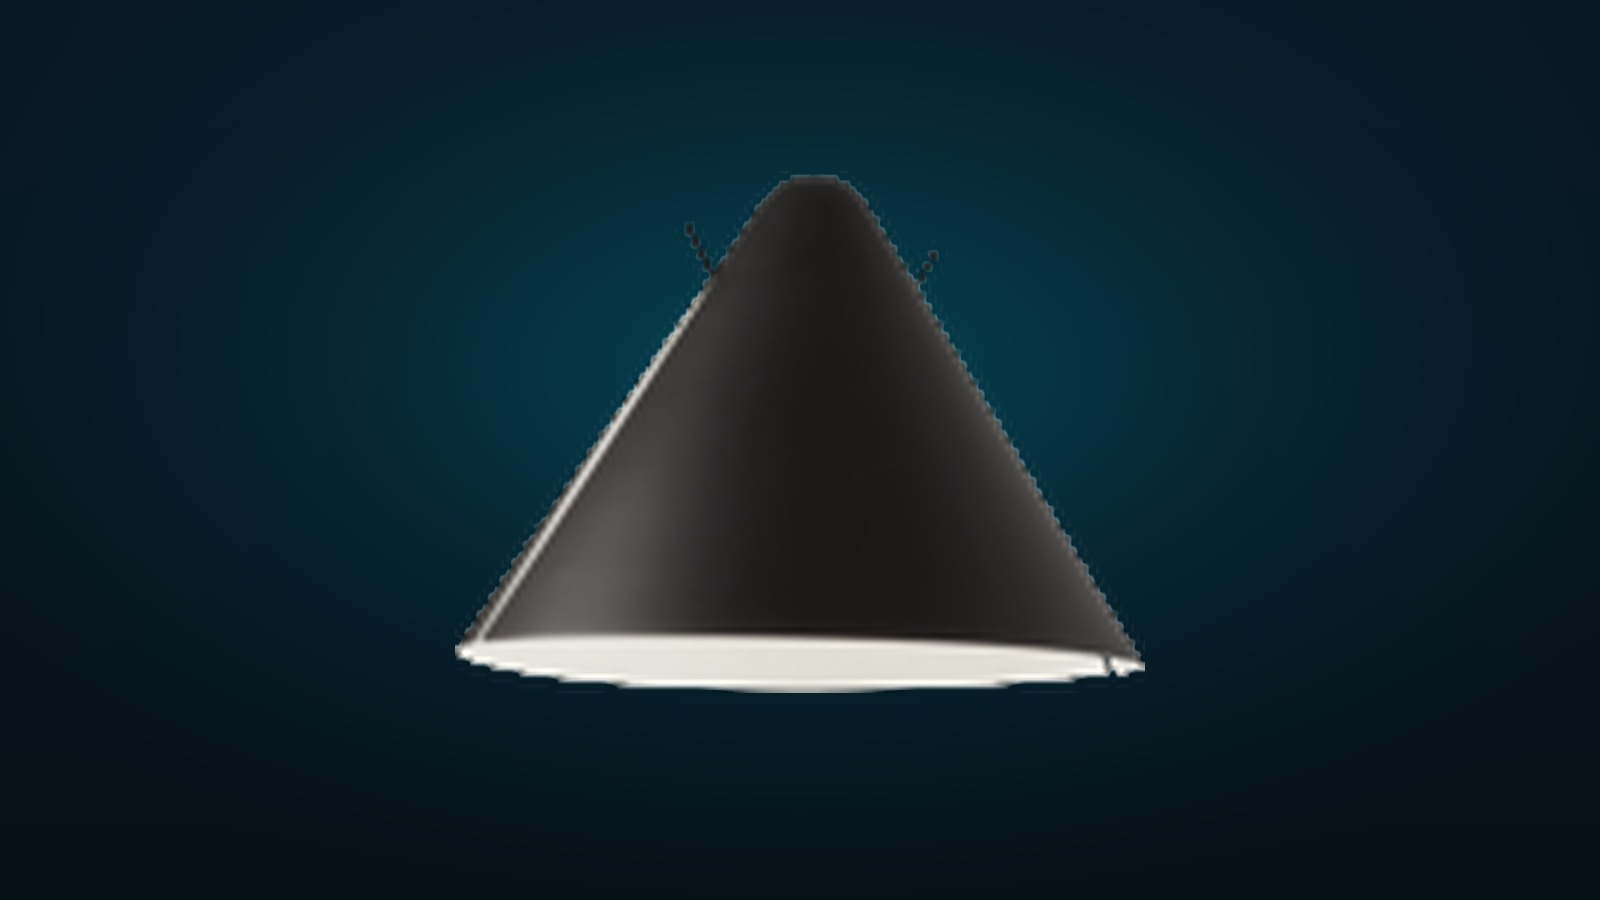
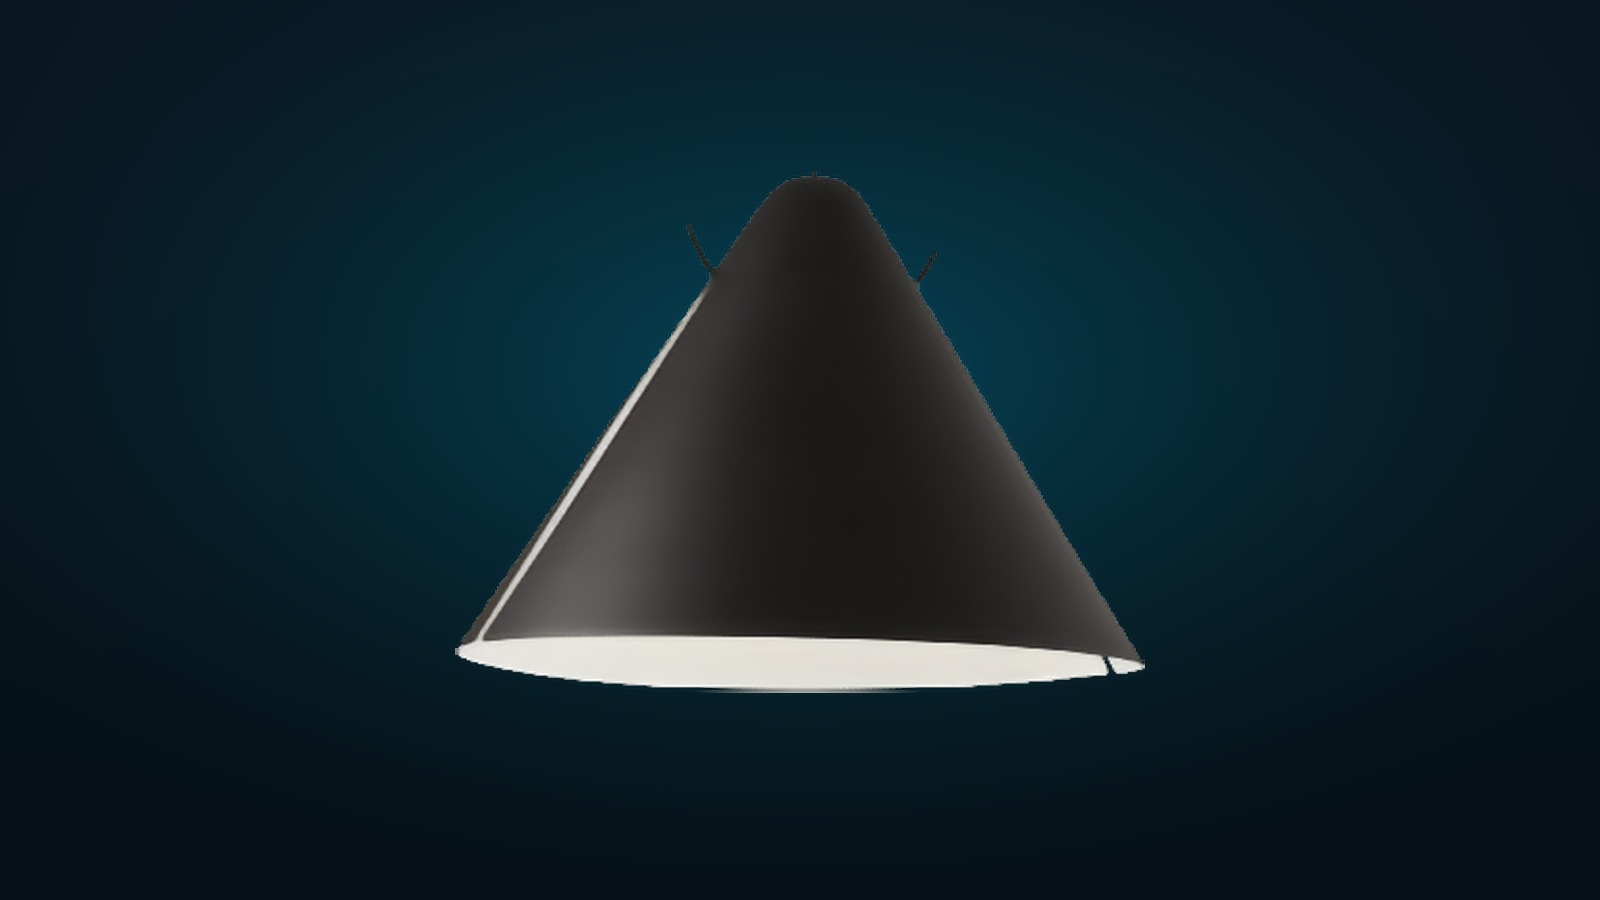
Upscale the three sources too small for a 1600x900 card
Fabric Tape, IS 2360 R and Attic had no usable source at card size.
Fabric Tape was the worst image in the catalogue: every one of its twelve
candidates is a 147x147 thumbnail, which the card blew up 3.55x.

Pixelmator Pro's 3x ML Super Resolution through the pixelmator-mcp
server (see scripts/mcp-call.mjs) gives 441, 1080 and 618px. Each is
committed as a file that SRC_OVERRIDE points at, so the pipeline stays
deterministic and every upscaled image is reviewable as what it is --
a real supplier photograph that has been through an ML upscale. The
untouched originals are kept beside them.

Alpha survives the round trip, which matters because two of the three
are cut-outs: IS 2360 R 64.3% -> 64.6% transparent, Attic unchanged.

Deliberately NOT adopted:
- LF20 (502x240) -- already adequate; not worth an ML artefact.
- Raptor (300x300) -- the 3x version invents concentric rings in the
  light engine that are not in the source. Still wants a supplier shot.
- Circular -- its problem is composition, not resolution.

Also adds scripts/mcp-call.mjs (drives the MCP server over stdio, since
DSH declares MCP servers at session start) and registers the server in
.mcp.json.

Still outstanding on the image review: the seven multi-object cards and
the four bollards.

diff --git a/scripts/make-product-tiles.py b/scripts/make-product-tiles.py
@@ -40,8 +40,12 @@ SRC_OVERRIDE = {
     # NOTE: do not "fix" smart-remote by pointing it at steinel-smart-remote.png —
     # despite the filename that file is a motion detector. The scraped image, an
     # orange app screen, is the actual product.
-    # scraped only ever captured two lifestyle teasers for this one
-    'sensors/is-2360-r': 'public/product-images/steinel-is-2360-r.png',
+    # scraped only ever captured two lifestyle teasers for this one, and the
+    # supplier's own page serves only a 360x360 shot. The card renders the
+    # product 522px tall, so that was a 1.45x upscale. This points at the same
+    # photograph through Pixelmator's 3x ML Super Resolution (1080x1080); the
+    # untouched original is kept beside it as steinel-is-2360-r.png.
+    'sensors/is-2360-r': 'public/product-images/steinel-is-2360-r-upscaled.png',
     # the scraped folder is a "related products" carousel of unrelated fittings
     'profiles/profiles': 'public/product-images/profiles.jpg',
     # scored highest on the family shot: a marketing composite of the range laid
@@ -97,7 +101,15 @@ SRC_OVERRIDE = {
     'track/35w-track-spot': 'public/product-images/35w-track-spot-single.png',
     # Three cone pendants at different sizes in one frame. The crop is only
     # 206px, so this card is soft -- flagged for a supplier shot.
-    'indoor-architectural/attic': 'public/product-images/attic-single.png',
+    # ...and the 3x ML Super Resolution takes it to 618px, so it now downscales
+    # for the card instead of being blown up 2.5x.
+    'indoor-architectural/attic': 'public/product-images/attic-single-upscaled.png',
+    # Every one of the twelve candidates in this folder is a 147x147 thumbnail,
+    # which the card blew up 3.55x -- the worst image in the catalogue. The
+    # supplier only ever published thumbnails, so this is the same photograph at
+    # 441x441 via Pixelmator's 3x ML Super Resolution. Still a 1.18x upscale, but
+    # no longer mush. A real studio shot is still wanted from the supplier.
+    'indoor-architectural/fabric-tape': 'public/product-images/fabric-tape-upscaled.png',
     # A linear batten with an unrelated round fitting beside it. Keeps the
     # batten (--blob 1), which is the product this slug names.
     'vapourproof/kuda': 'public/product-images/kuda-single.png',
